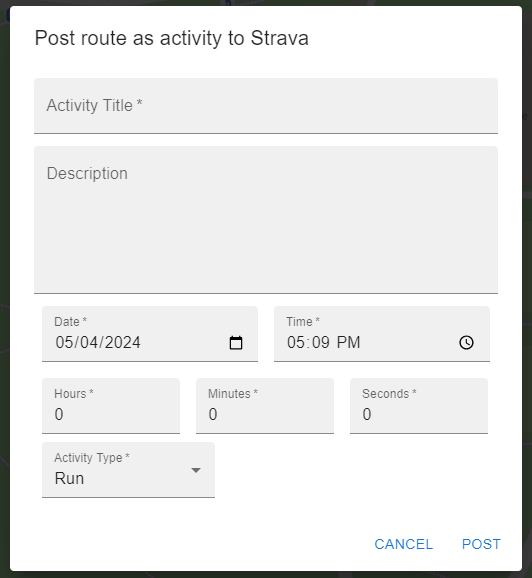
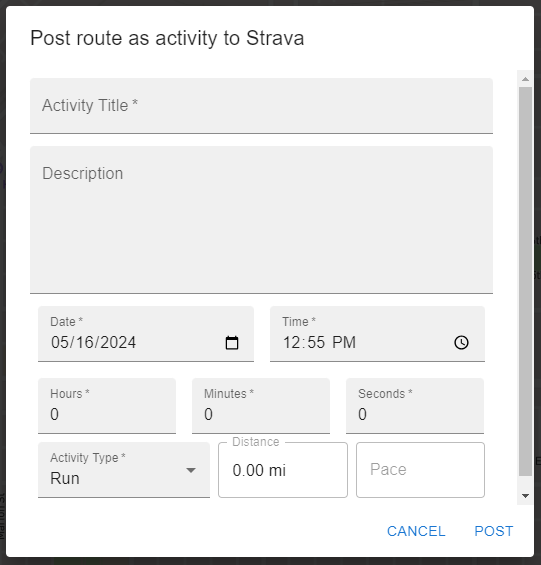
Readme changes

diff --git a/src/components/PostToStravaDialog.js b/src/components/PostToStravaDialog.js
@@ -17,6 +17,7 @@ function PostToStravaDialog({ distance, onPost, onCancel, open }) {
   const [hours, setHours] = React.useState(0);
   const [mins, setMins] = React.useState(0);
   const [secs, setSecs] = React.useState(0);
+  const [distanceStr, setDistanceStr] = React.useState(distance.toFixed(2).toString() + " mi");
 
   let currDate = new Date();
   const offset = currDate.getTimezoneOffset()
@@ -224,8 +225,8 @@ function PostToStravaDialog({ distance, onPost, onCancel, open }) {
             }}
             id="strava-distance"
             disabled
-            value={distance.toFixed(2)}
-            label="Distance (miles)"
+            value={distanceStr}
+            label="Distance"
           >
           </TextField>
         </FormControl>

diff --git a/README.md b/README.md
@@ -77,4 +77,4 @@ This can be a confusing feature, but can also be helpful for mapping different t
 
 | ![Favor Roads](./assets/favor_roads.png) |
 |:-:|
-| *Routing with the slider all the way toward "Roads". The route avoids paths and stays on raods* |
+| *Routing with the slider all the way toward "Roads". The route avoids paths and stays on roads* |
